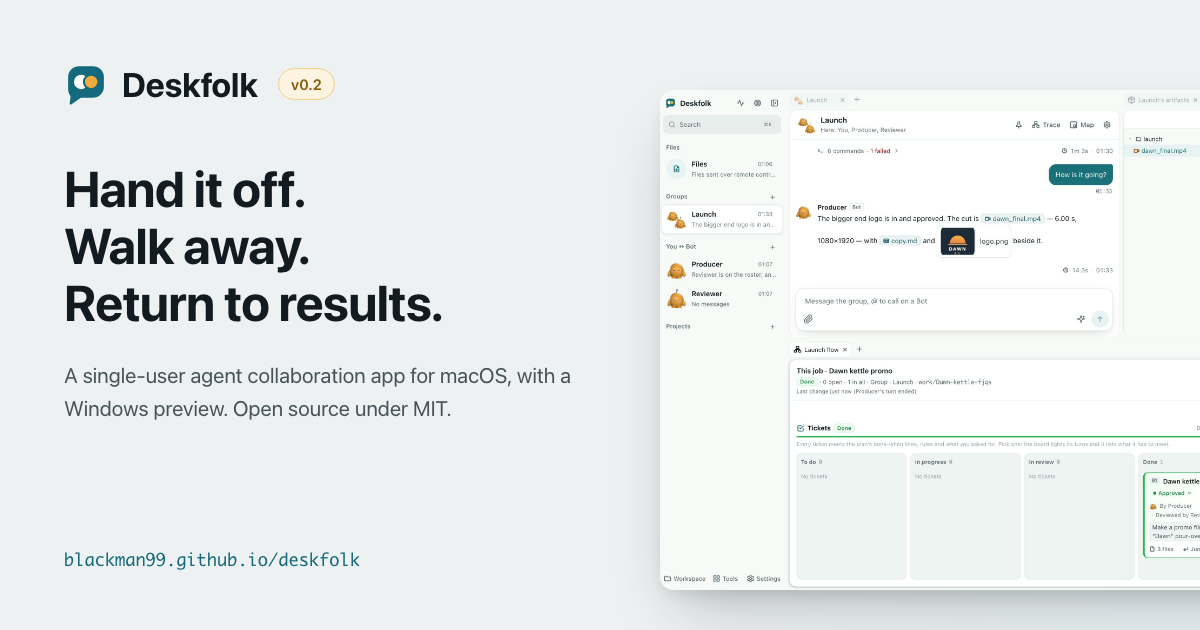
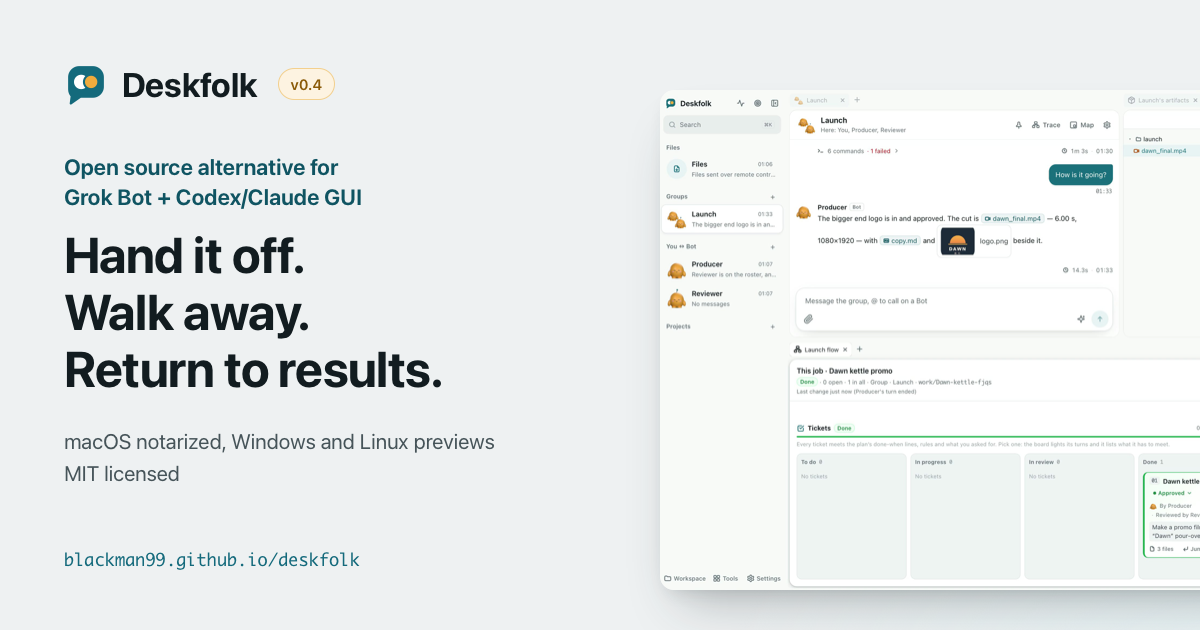
feat(landing): the site says what Deskfolk is, as the repository does
The repository's description is now "Open source alternative for Grok
Bot + Codex/Claude GUI". The site carries the same line as
hero.descriptor: above the headline on the first screen and in the Open
Graph images, leading the page title and meta description, in the footer
and in the web app manifest. The headline stays "Hand it off. Walk away.
Return to results."

The OG images and the social preview were captured again; their small
line is now the platforms and the MIT licence, so the descriptor is not
said twice. docs/development.md lists where the line lives for the next
change.

diff --git a/apps/landing/src/lib/i18n.ts b/apps/landing/src/lib/i18n.ts
@@ -29,6 +29,8 @@ export type Dict = {
     themeDark: string;
   };
   hero: {
+    /** What Deskfolk is, in one line: the GitHub repository's description, set above the headline. */
+    descriptor: string;
     headline: string;
     headlineLines: string[];
     /** What kind of job and who it is for; the trust list below says how. */
@@ -109,6 +111,7 @@ const zh: Dict = {
     themeDark: '暗色'
   },
   hero: {
+    descriptor: 'Grok Bot + Codex/Claude GUI 的开源替代',
     headline: '交出去，离开，回来看结果。',
     headlineLines: ['交出去，离开，', '回来看结果。'],
     subhead: '多天、多步、要返工的活交给 Bot；Bot 说做完的，应用先核过。面向已在用本机 Agent 或自带模型端点的独立开发者和小工作室。',
@@ -182,14 +185,14 @@ const zh: Dict = {
     ]
   },
   footer: {
-    tagline: '本机运行的单人 agent 协作应用，支持 macOS，Windows 和 Linux 为预览版。',
+    tagline: 'Grok Bot + Codex/Claude GUI 的开源替代，本机运行，支持 macOS，Windows 和 Linux 为预览版。',
     mit: 'MIT 协议开源。与 xAI / Grok 无官方附属关系。',
     contributors: 'Deskfolk Contributors'
   },
   seo: {
-    title: 'Deskfolk — 交出去，离开，回来看结果',
+    title: 'Deskfolk — Grok Bot + Codex/Claude GUI 的开源替代',
     description:
-      'macOS 本机的 agent 协作应用（Windows、Linux 为预览版）：把多天、多步、要返工的活交给 Bot，你可以离开。产物按事和任务归好，图、音视频、PDF、Office、网页在应用里直接打开、直接批注；每一轮在做哪张任务、用了哪个模型、为什么，都画在这件事的流程图上；你接受的活交付之后，出过错的 Bot 自己复盘，把坑写进自己的记忆和技能，下次照做。模型负责干活，应用负责当真：你的原话原样存档、你写下的规则只增不删，任务要过应用自己跑的检查和有依据的审查才算做完，叫停是只有你能解除的状态，停在半路有监督器去追，只在需要你时才找你。这些规矩写在代码里；挂在上面的工作方式能换、能改：应用自己的哪些环节跑、带什么数是引擎，内置通用、视频、代码三套，按对话选，这一套也可以不用（「自由」只留批准、叫停和花费）；每个环节用哪个模型、哪段提示词在分工页上设；Bot 怎么干活写在应用自带的提示词里，也可以让 Bot 查本机记录、拿依据提改动，在批准卡上由你放行。会话和文件在本机，模型端点和 MCP 工具由你接入，危险动作先等你批准。面向已在用 Claude Code、Codex 这类本机 Agent，或会自己配模型端点的独立开发者与小工作室。MIT 开源。',
+      'Grok Bot + Codex/Claude GUI 的开源替代。macOS 本机的 agent 协作应用（Windows、Linux 为预览版）：把多天、多步、要返工的活交给 Bot，你可以离开。产物按事和任务归好，图、音视频、PDF、Office、网页在应用里直接打开、直接批注；每一轮在做哪张任务、用了哪个模型、为什么，都画在这件事的流程图上；你接受的活交付之后，出过错的 Bot 自己复盘，把坑写进自己的记忆和技能，下次照做。模型负责干活，应用负责当真：你的原话原样存档、你写下的规则只增不删，任务要过应用自己跑的检查和有依据的审查才算做完，叫停是只有你能解除的状态，停在半路有监督器去追，只在需要你时才找你。这些规矩写在代码里；挂在上面的工作方式能换、能改：应用自己的哪些环节跑、带什么数是引擎，内置通用、视频、代码三套，按对话选，这一套也可以不用（「自由」只留批准、叫停和花费）；每个环节用哪个模型、哪段提示词在分工页上设；Bot 怎么干活写在应用自带的提示词里，也可以让 Bot 查本机记录、拿依据提改动，在批准卡上由你放行。会话和文件在本机，模型端点和 MCP 工具由你接入，危险动作先等你批准。面向已在用 Claude Code、Codex 这类本机 Agent，或会自己配模型端点的独立开发者与小工作室。MIT 开源。',
     imageAlt: 'Deskfolk：一个窗口里摆着群聊、做好的宣传短片和这件事的看板'
   },
   docs: {
@@ -306,6 +309,7 @@ const en: Dict = {
     themeDark: 'Dark'
   },
   hero: {
+    descriptor: 'Open source alternative for Grok Bot + Codex/Claude GUI',
     headline: 'Hand it off. Walk away. Return to results.',
     headlineLines: ['Hand it off.', 'Walk away.', 'Return to results.'],
     subhead: 'Multi-day, multi-step jobs that need rework go to Bots; when a Bot says done, the app checks first. Bring your local agent or model endpoint.',
@@ -379,14 +383,14 @@ const en: Dict = {
     ]
   },
   footer: {
-    tagline: 'A single-user agent collaboration app for macOS, with Windows and Linux previews.',
+    tagline: 'Open source alternative for Grok Bot + Codex/Claude GUI. Runs on your own computer: macOS, with Windows and Linux previews.',
     mit: 'Open source under MIT. Not affiliated with xAI / Grok.',
     contributors: 'Deskfolk Contributors'
   },
   seo: {
-    title: 'Deskfolk — Hand it off, walk away, return to results',
+    title: 'Deskfolk — Open source alternative for Grok Bot + Codex/Claude GUI',
     description:
-      'A local agent app for macOS (Windows and Linux in preview): hand Bots the multi-day, multi-step jobs that need rework, and walk away. Files are kept by job and ticket and open right in the app — images, audio and video, PDF, Office, web pages — ready to annotate; which ticket every turn works on, the model it ran on and why are drawn on the job\'s flow; and once you accept a delivery, each Bot that tripped up looks back and writes what it learned into its own memories and skills. The model does the work; the app holds it to account: your words are kept as you said them, the rules you write are only ever added to, a job is done only after checks the app runs itself and a review backed by evidence, a stop is a state only you can lift, a supervisor chases stalls, and the app comes to you only when it needs you. Those rules are code; the way of working hung on them is yours to choose and change: an engine says which of the app\'s own steps run and with what numbers (general, video and coding built in, chosen per conversation, and Plain to do without all this, keeping only your approvals, stops and spend), Roles sets each step\'s model and prompts, and how Bots work is written in prompts the app ships — change them yourself, or let a Bot propose a change, backed by this machine\'s records, that you let through on its approval card. Chats and files stay on your Mac; you plug in the model endpoints and MCP tools, and risky actions wait for your approval. For solo developers and small studios who already use a local agent such as Claude Code or Codex, or bring their own model endpoint. MIT open source.',
+      'Open source alternative for Grok Bot + Codex/Claude GUI. A local agent app for macOS (Windows and Linux in preview): hand Bots the multi-day, multi-step jobs that need rework, and walk away. Files are kept by job and ticket and open right in the app — images, audio and video, PDF, Office, web pages — ready to annotate; which ticket every turn works on, the model it ran on and why are drawn on the job\'s flow; and once you accept a delivery, each Bot that tripped up looks back and writes what it learned into its own memories and skills. The model does the work; the app holds it to account: your words are kept as you said them, the rules you write are only ever added to, a job is done only after checks the app runs itself and a review backed by evidence, a stop is a state only you can lift, a supervisor chases stalls, and the app comes to you only when it needs you. Those rules are code; the way of working hung on them is yours to choose and change: an engine says which of the app\'s own steps run and with what numbers (general, video and coding built in, chosen per conversation, and Plain to do without all this, keeping only your approvals, stops and spend), Roles sets each step\'s model and prompts, and how Bots work is written in prompts the app ships — change them yourself, or let a Bot propose a change, backed by this machine\'s records, that you let through on its approval card. Chats and files stay on your Mac; you plug in the model endpoints and MCP tools, and risky actions wait for your approval. For solo developers and small studios who already use a local agent such as Claude Code or Codex, or bring their own model endpoint. MIT open source.',
     imageAlt: 'Deskfolk: a group chat, the finished promo film and the job’s board in one window'
   },
   docs: {

diff --git a/apps/landing/src/lib/home/HomeHero.svelte b/apps/landing/src/lib/home/HomeHero.svelte
@@ -8,7 +8,7 @@
   import Stand from './Stand.svelte';
 
   /**
-   * The first screen: the tagline, the download, and Mochi and Pudding at their desk, Pudding
+   * The first screen: what Deskfolk is in one line (the repository's description), the tagline, the download, and Mochi and Pudding at their desk, Pudding
    * typing away and saying what the page goes on to show. The six chapters are listed under the
    * tagline as links down the page; the 30-second film is one button away for whoever wants it.
    */
@@ -16,6 +16,7 @@
 
   const stage = useStage();
   const copy = $derived(stage.copy);
+  const descriptor = $derived(DICT[lang].hero.descriptor);
   const headline = $derived(DICT[lang].hero.headlineLines);
   let el: HTMLElement | undefined = $state();
   let film: VideoDialog | undefined = $state();
@@ -51,6 +52,7 @@
 <section class="hero" bind:this={el} aria-labelledby="hero-title">
   <div class="page grid">
     <div class="copy">
+      <p class="descriptor">{descriptor}</p>
       <h1 class="display headline" id="hero-title">
         {#each headline as l}
           <span>{l}</span>
@@ -142,6 +144,14 @@
 
   .copy:lang(en) {
     --fit: 10.6cqi;
+  }
+
+  .descriptor {
+    margin: 0 0 14px;
+    font-size: clamp(14px, 1.15vw, 16px);
+    font-weight: 650;
+    color: var(--teal-2);
+    line-height: 1.4;
   }
 
   .headline {

diff --git a/apps/landing/src/routes/og/[lang]/+page.svelte b/apps/landing/src/routes/og/[lang]/+page.svelte
@@ -2,6 +2,7 @@
   import { dev } from '$app/environment';
   import { base } from '$app/paths';
   import Logo from '$lib/Logo.svelte';
+  import { HOME } from '$lib/home/copy';
   import { DICT, type Lang } from '$lib/i18n';
   import { GITHUB_OWNER, GITHUB_REPO } from '$lib/site';
 
@@ -36,10 +37,12 @@
         <span class="brand-name">Deskfolk</span>
         <span class="wip">{t.nav.wip}</span>
       </div>
+      <!-- As on the home page's first screen: what it is above the tagline. -->
+      <p class="descriptor">{t.hero.descriptor}</p>
       <h1>
         {#each t.hero.headlineLines as line, i}{#if i > 0}<br />{/if}<span>{line}</span>{/each}
       </h1>
-      <p class="tagline">{t.footer.tagline}{lang === 'zh' ? ' MIT 开源。' : ' Open source under MIT.'}</p>
+      <p class="tagline">{HOME[lang].hero.note}<br />{lang === 'zh' ? 'MIT 协议开源' : 'MIT licensed'}</p>
       <p class="url">{siteLabel}</p>
     </div>
     <!-- The homepage's first-screen still: the real app, four panes at the end of step 9. -->
@@ -111,8 +114,17 @@
     padding: 3px 12px;
   }
 
+  .descriptor {
+    margin: 40px 0 0;
+    font-size: 22px;
+    font-weight: 650;
+    line-height: 1.35;
+    color: var(--teal-2);
+    text-wrap: balance;
+  }
+
   h1 {
-    margin: 48px 0 0;
+    margin: 14px 0 0;
     font-size: 58px;
     line-height: 1.22;
   }

diff --git a/CHANGELOG.md b/CHANGELOG.md
@@ -6,6 +6,11 @@ All notable changes to Deskfolk are documented in this file. 0.1.0 is the first 
 
 ## Unreleased
 
+### The site says what Deskfolk is: an open source alternative for Grok Bot + Codex/Claude GUI
+
+- The repository's description is now "Open source alternative for Grok Bot + Codex/Claude GUI", and the website says the same: above the headline on the first screen, in the page title and search description, in the footer and the web app manifest. The headline, "Hand it off. Walk away. Return to results.", stays.
+- The Open Graph images and the repository's social preview were captured again with that line above the headline; under it is now just the platforms and the MIT licence.
+
 ### Setup and Settings keep the models you are picking
 
 - Any change to the saved settings, even one about something else (the theme, launch at login, setup's own save of the workspace a moment earlier), put the saved workspace, endpoint, models and default model back into setup and the settings, wiping what you had picked and not yet saved. A field now follows the saved settings only when its saved value changed.

diff --git a/CHANGELOG.zh.md b/CHANGELOG.zh.md
@@ -6,6 +6,11 @@
 
 ## Unreleased
 
+### 官网写明 Deskfolk 是什么：Grok Bot + Codex/Claude GUI 的开源替代
+
+- 仓库描述改成了 “Open source alternative for Grok Bot + Codex/Claude GUI”，官网跟着写上同一句（中文版是「Grok Bot + Codex/Claude GUI 的开源替代」）：首屏标语上方、页面标题和搜索摘要、页脚、网页清单。标语「交出去，离开，回来看结果。」不变。
+- Open Graph 图和仓库社交预览图重新截过，标语上方多了这一句，下面只留平台和 MIT 协议。
+
 ### 首次设置和设置页不再冲掉正在选的模型
 
 - 保存的设置只要有任何改动，哪怕改的是别的（主题、开机启动、首次设置自己片刻前对工作区的保存），都会把已保存的工作区、端点、模型和默认模型整份写回首次设置和设置页，把还没保存的选择冲掉。现在某一项只在它保存的值真的变了时才跟着变。
